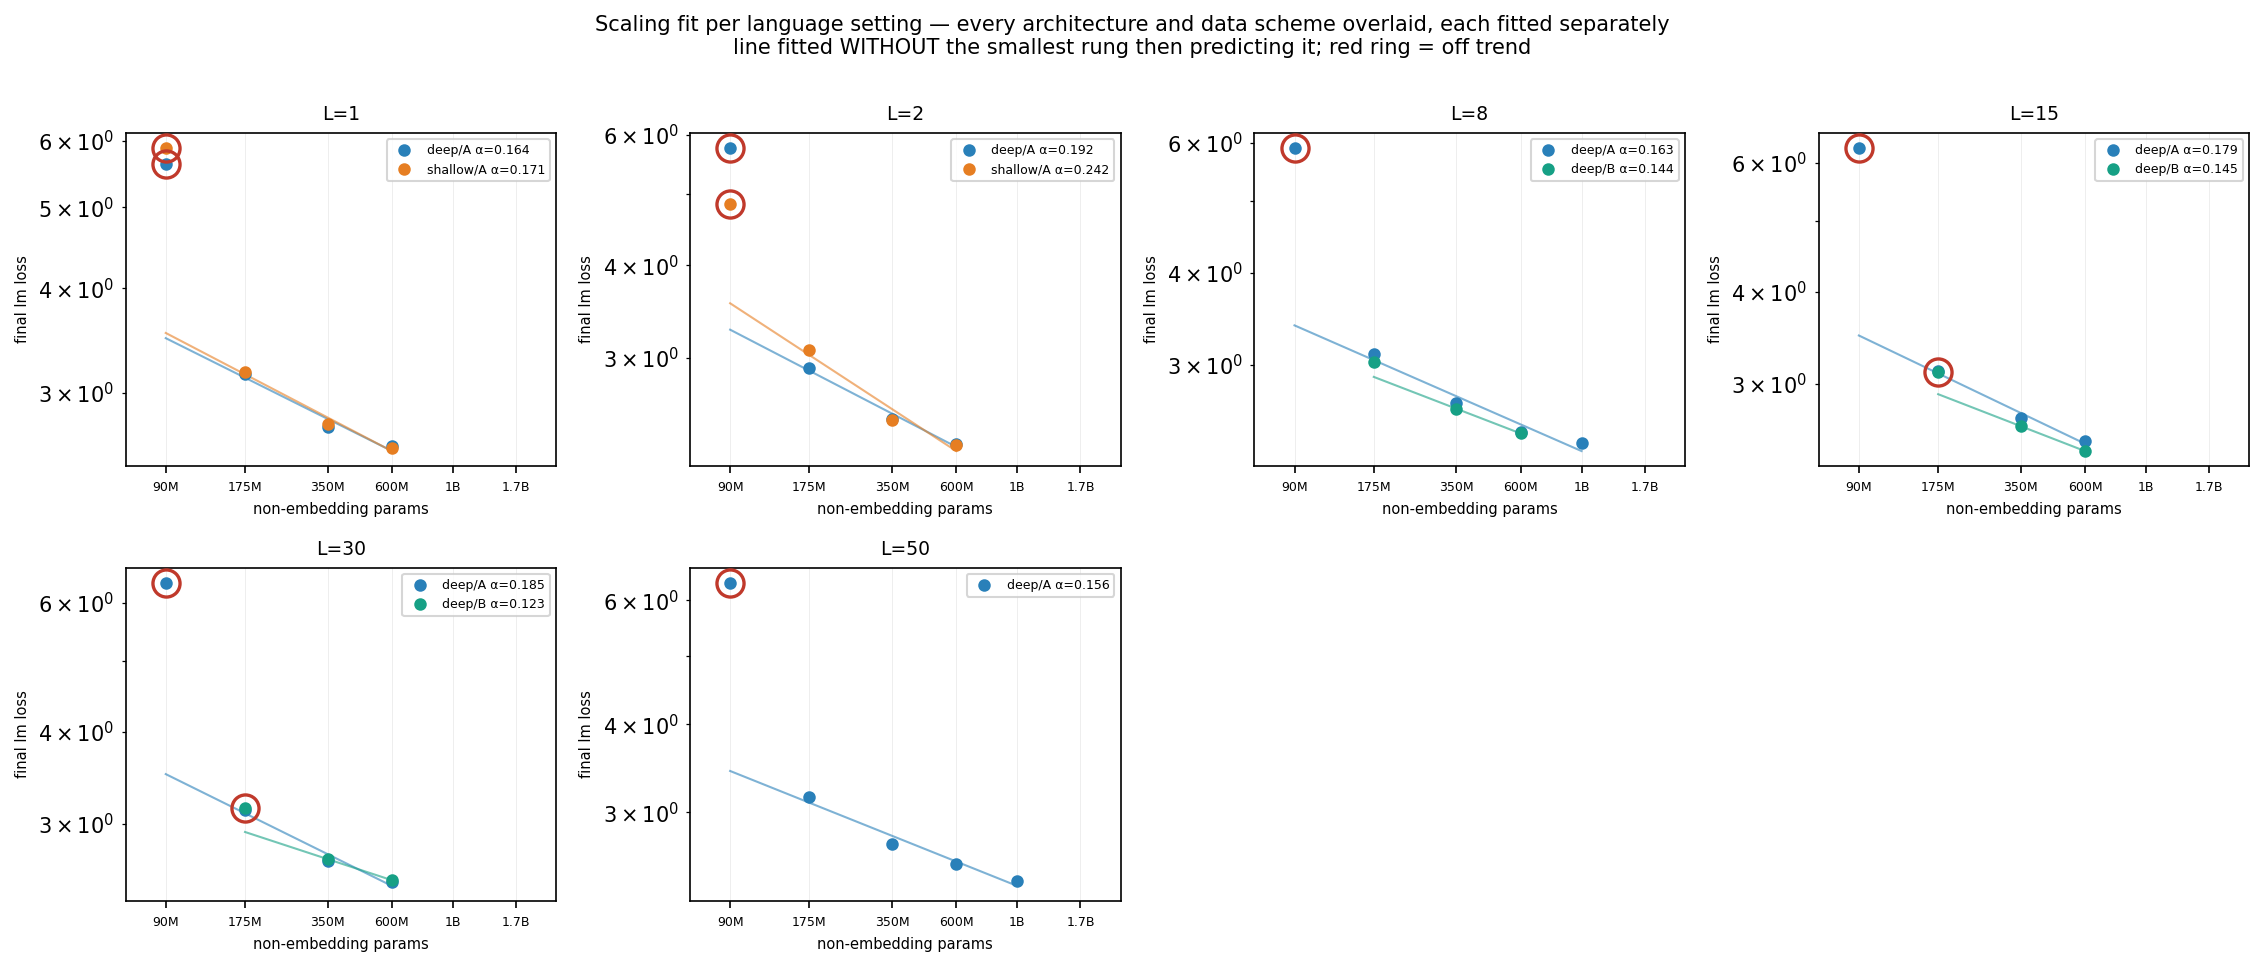
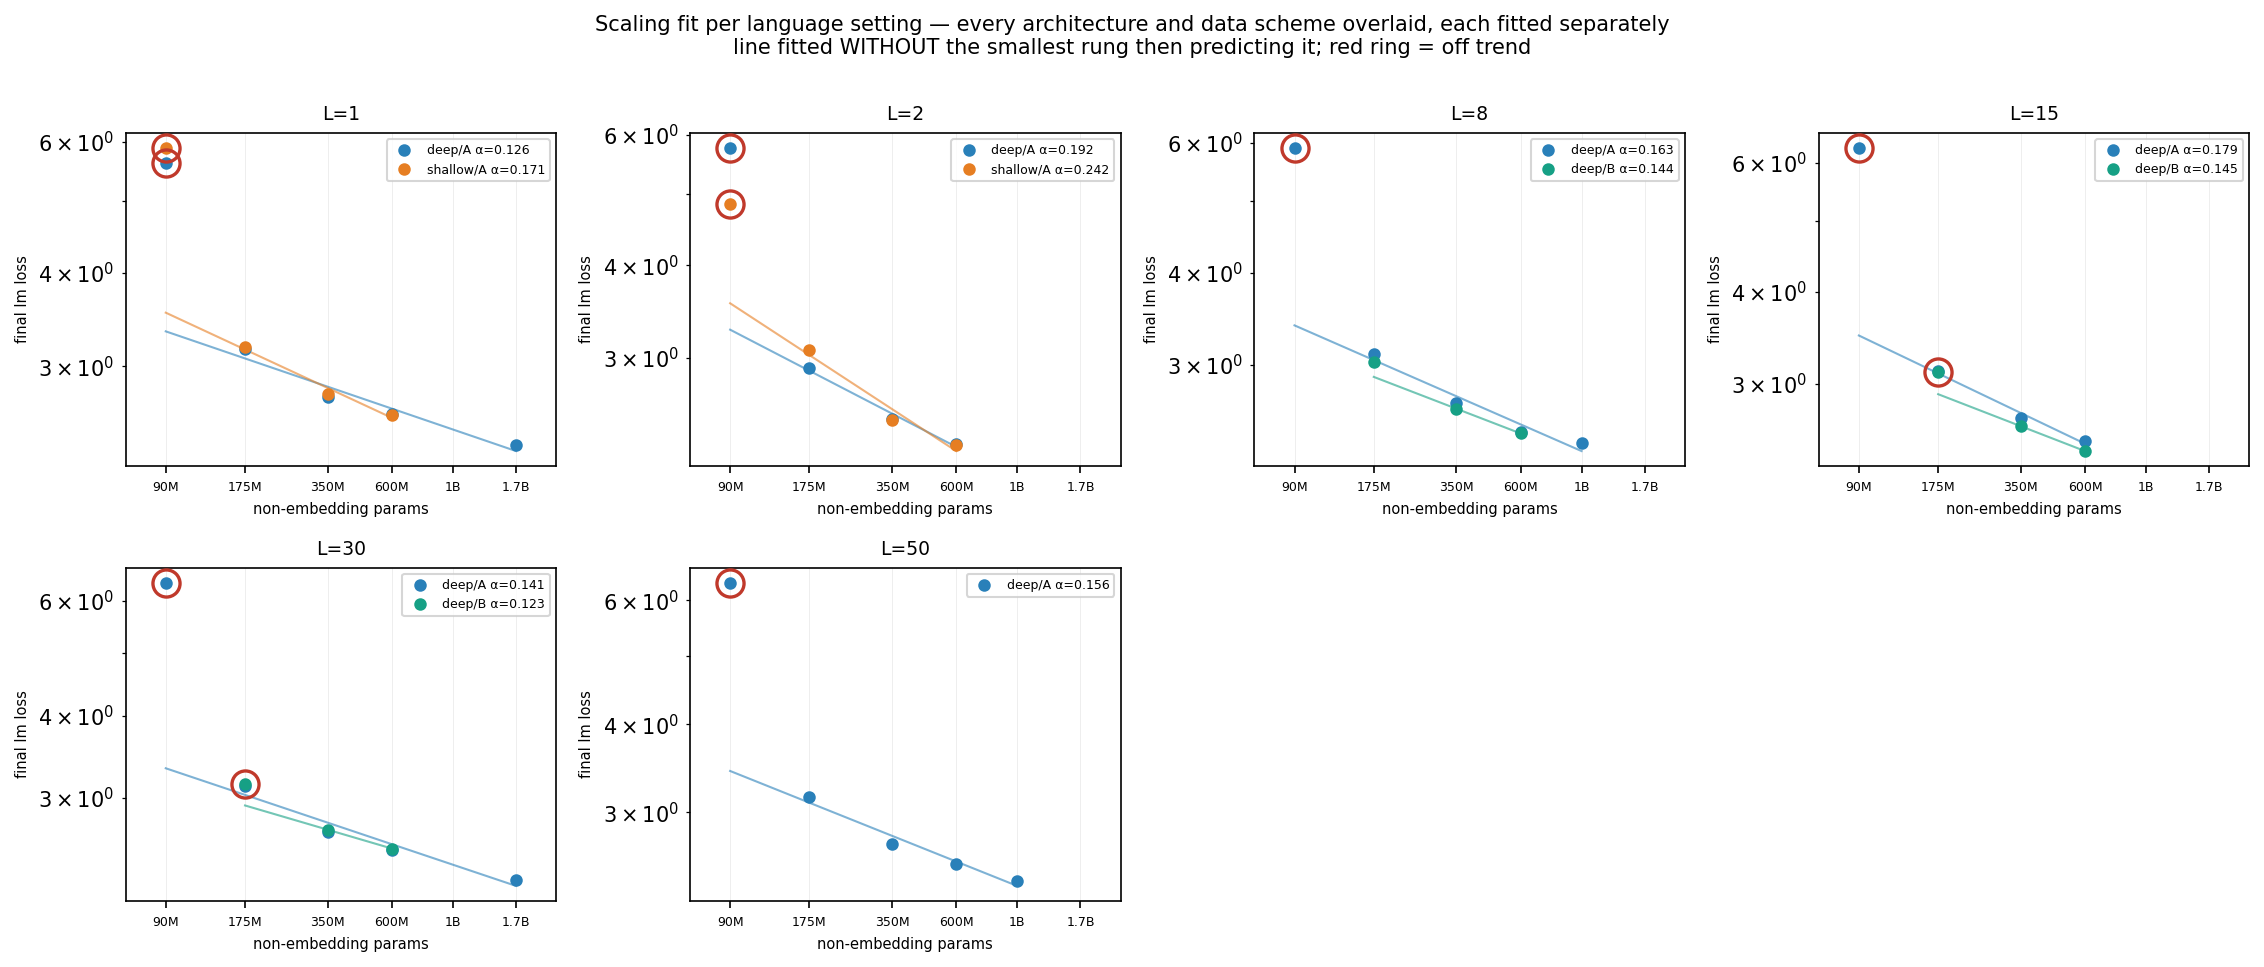
update progress

diff --git a/plan/todos/status-09-12.md b/plan/todos/status-09-12.md
@@ -1,0 +1,171 @@
+
+
+✅ python3.11 pretrain/ladder_report.py --plot --publish --push-hf --push-git
+✅ sbatch scripts/mirror_eval_logs.sbatch 
+✅ bash evals/scripts/launch_bpb.sh
+✅ python3.11 pretrain/auto_evals_cscs.py --watch 1200
+✅ cd Projects/snr-multilingual/ && bash scripts/reservation_drain.sh --max-nodes 52 --interval 1800
+
+✅ resume 1.7B models:
+python3.11 launch_trainings.py cscs --size 1.7B                  # L2 deep
+python3.11 launch_trainings.py cscs --size 1.7B --scheme B       # L8, L30 scheme B deep
+python3.11 launch_trainings.py cscs --size 1.7B --arch shallow   # L1, L2, L8, L30 shallow
+scontrol update jobid=3377944 reservation=SD-69241-apertus-1-5-0 # L2 deep
+
+✅ resume 1B models:
+python3.11 launch_trainings.py cscs --size 1B --langs 1 --seed 1904
+python3.11 launch_trainings.py cscs --size 1B --langs 15 --seed 1904
+
+✅ rebuild data for 1.7B size:
+M=/capstor/store/cscs/swissai/infra01/multilingual_data_mixtures/predictivity-data
+R=$M/rebuild-92B
+DST=/iopsstor/scratch/cscs/mariagrandury/data-92B
+ONE=/iopsstor/scratch/cscs/mariagrandury/Projects/snr-multilingual/src/pretrain/data/submit_build_one.sh
+.# the rebuild root needs the shared english + validation links (launch_builds.sh does this)
+for d in $R $R/schemeB; do mkdir -p $d && for f in english_dclm.bin english_dclm.idx validation.manifest.json; do ln -sfn $M/$f $d/$f; done; done
+sbatch --job-name=build-a-L15-92b --dependency=singleton --export=ALL,BUILD_SCHEME=A,BUILD_STAGE=fineweb,BUILD_SETTING=15,BUILD_OUT=$R,BUILD_DST=$DST $ONE
+sbatch --job-name=build-a-L50-92b --dependency=singleton --export=ALL,BUILD_SCHEME=A,BUILD_STAGE=fineweb,BUILD_SETTING=50,BUILD_OUT=$R,BUILD_DST=$DST $ONE
+sbatch --job-name=build-b-L15-92b --dependency=singleton --export=ALL,BUILD_SCHEME=B,BUILD_STAGE=fineweb,BUILD_SETTING=15,BUILD_OUT=$R/schemeB,BUILD_DST=$DST $ONE
+scontrol update jobid=3378809 reservation=SD-69241-apertus-1-5-0 
+scontrol update jobid=3378808 reservation=SD-69241-apertus-1-5-0 
+scontrol update jobid=3378807 reservation=SD-69241-apertus-1-5-0 
+
+✅ resume trainings that took longer bc of mirror eval logs:
+python3.11 launch_trainings.py cscs --scheme ZH --size 175M,350M
+python3.11 launch_trainings.py cscs --scheme ES --size 175M,350M
+python3.11 launch_trainings.py cscs --scheme AT3 --size 175M
+python3.11 launch_trainings.py cscs --size 90M --langs 2 --seed 1904 --ademamix-beta3-factor 0.2 --gbs 252
+
+
+- ✅ launch 90M config comparison runs (4x)
+- ✅ mirror_eval_logs time -> 12h
+- ✅ Refit evals
+- access to aromanou's logs
+- launch pretraining of 1B shallow models
+- calculate absolute BPB (see details below)
+- Reeval after worker implementation
+- Add language-specific tasks
+- Change eval QA format
+- Generate the INCLUDE v2 MC-format tasks and wire them
+- Switch or drop LAMBADA-MT
+- Get the changes from pretrain-eval-azure in local branch (pull --rebase)
+- Implement flops params?
+- Write methodology
+- Consider models needed language interference study
+
+
+## 90M config comparison
+
+# B — batch size only, β₃ memory at 20% of each run (recommended)
+python3.11 src/pretrain/launch_trainings.py cscs --size 90M --langs 2 --seed 1904 --gbs 252 --ademamix-beta3-factor 0.2
+python3.11 src/pretrain/launch_trainings.py cscs --size 90M --langs 2 --seed 1904 --gbs 84  --ademamix-beta3-factor 0.2
+
+# A — grid config except the batch size (β₃ 0.9999)
+python3.11 src/pretrain/launch_trainings.py cscs --size 90M --langs 2 --seed 1904 --gbs 252
+python3.11 src/pretrain/launch_trainings.py cscs --size 90M --langs 2 --seed 1904 --gbs 84
+
+## Access to aromanou's logs
+
+Command for aromanou
+Her training jobs write their Slurm logs to her own scratch, which we can't enter. She runs this once:
+
+L=/iopsstor/scratch/cscs/aromanou/data-mix-small/Megatron-LM/logs
+# let mariagrandury pass through down to the log dir, without listing anything
+setfacl -m u:mariagrandury:--x /iopsstor/scratch/cscs/aromanou \
+    /iopsstor/scratch/cscs/aromanou/data-mix-small \
+    /iopsstor/scratch/cscs/aromanou/data-mix-small/Megatron-LM $L $L/slurm
+# read the training logs, existing and future (mask pinned so csstaff gains nothing)
+setfacl -m u:mariagrandury:r-x -d -m u:mariagrandury:r-x $L/slurm/training
+find $L/slurm/training -type f -exec setfacl -m u:mariagrandury:r-- -m m::r-- {} +
+
+Eval logs need nothing from her. Her eval results already sit in our tree and are readable (0 of her 380 entries are unreadable), so the mirror copies them. Her eval Slurm logs are in her home clone, which is private, but no tool reads eval Slurm logs.
+Purge protection is a separate step (optional). The mirror's touch pass can't refresh her checkpoint files; only she can: 
+
+find /iopsstor/scratch/cscs/mariagrandury/data-mix-small/Megatron-LM/logs/Meg-Runs/msnr -path '*/checkpoints/*' -user aromanou -exec touch -c {} +
+
+She shouldn't git pull. Her 1B runs are on the old 20-checkpoint schedule, and the current launcher refuses to resume them ("resume it from the checkout that started it"). That old clone is also why her logs still go to her scratch.
+After her grant, compute_cost.py picks her logs up automatically. ladder_report.py and the mirror still only read our log directory; each needs a small change, which I haven't made.
+
+## To consider (BPB): Context resets at every scoring window
+
+Production scores back-to-back 4,096-token windows, so the first tokens of each window predict with almost no context. On the same checkpoint, 1,024-token windows read higher than one continuous window by 0.019 bits/byte on English and 0.122 on Tibetan; scaled to production's window count per 1M tokens, that is roughly +0.007 and +0.03.
+
+Impact: every model is scored on identical windows, so rankings and decision accuracy are unaffected. Absolute BPB is pessimistic, and more so for scripts with few bytes per token. Suggestion: if absolute values matter — for comparison with published numbers — score with a sliding window and a 512–1,024-token stride.
+
+[report]
+- set the flag to --rope-scaling-factor 8
+- fix the “trained language” flag
+- validation languages -> good catch! since we will change the final L100 list, we will have to change the validation 100 languages, how will this affect the validation rebuild and calculation of bpb scores? give me a short list of tasks to follow and what to remember when i do this (i will give this task to another session)
+- The byte-count self-check never runs in production: explain further this caveat, why is it relevant and the proposed fix
+- create a 2nd version of the artifact without the BPB implementation review section
+
+
+# 1B and 1.7B training status
+
+## 1B
+
+- Done:
+    - deep L1 (seeds 28 and 1797), L2 ×3 seeds, L8, L30 ×3 seeds, L50 seed 1904
+    - deep scheme B
+- Waiting for aromanou: L1-deep-seed1904 is at 41,166 of 45,720 and L15-deep-seed1904 at 36,592. Both stopped on node failures. Only her clone can resume them, because they're on the old save schedule that the current launcher refuses.
+- Queued: L50-AT3 deep.
+- Not started:
+    - deep L50 (seeds 28 and 1797), ZH and ES
+    - all 19 shallow 1B cells
+- Blocked: L100-AT3, because its data isn't staged.
+
+## 1.7B
+
+- Done: deep L1 and L30.
+- Running: deep L8 is at iteration 66,659 of 81,000, about 4.5 h from the end, which this job reaches.
+- Queued: L50-AT3 deep.
+- Not started: shallow L50-AT3, and shallow scheme B at L8 and L30.
+- Blocked:
+    - L15 and L50, both arches, and L15 scheme B, both arches: they wait for the 92B data rebuilds;
+    - L100-AT3: its data isn't staged.
+- Resumes with no job queued:
+
+cell	            at     / target	first job requests	jobs to finish
+L2 deep	            65,491 / 81,000	8:15	1
+L8 scheme B deep    56,700 / 81,000	11:15	1
+L30 scheme B deep	65,176 / 81,000	8:15	1
+L1 shallow	        64,512 / 80,640	8:15	1
+L2 shallow	        32,016 / 80,640	11:59	2
+L8 shallow	        12,096 / 80,640	11:59	3
+L30 shallow	        31,667 / 80,640	11:59	2
+
+Each is a 21-node job, so all seven need 147 nodes at once.
+
+The L8-scheme-B job hit TIMEOUT on 09-11 because the previous reservation ended under it. Job 3357160 (1.7B L8 shallow) is less clear: it saved iteration 12,096 at 23:58 and its tasks were terminated a moment later. The log shows no error, no walltime hit and no reservation end, so I don't know why it stopped. Resuming from 12,096 is safe.
+
+
+cd /iopsstor/scratch/cscs/mariagrandury/Projects/snr-multilingual/src/pretrain
+# preview all three first: each should list only [resume] lines
+python3.11 launch_trainings.py cscs --size 1.7B --dry-run
+python3.11 launch_trainings.py cscs --size 1.7B --scheme B --dry-run
+python3.11 launch_trainings.py cscs --size 1.7B --arch shallow --dry-run
+
+python3.11 launch_trainings.py cscs --size 1.7B                  # L2 deep
+python3.11 launch_trainings.py cscs --size 1.7B --scheme B       # L8, L30 scheme B deep
+python3.11 launch_trainings.py cscs --size 1.7B --arch shallow   # L1, L2, L8, L30 shallow
+
+
+Commands for aromanou:
+
+cd /users/aromanou/projects/mSNR/snr-multilingual/src/pretrain
+python3.11 launch_trainings.py cscs --size 1B --langs 1 --seed 1904 --dry-run
+python3.11 launch_trainings.py cscs --size 1B --langs 1 --seed 1904
+python3.11 launch_trainings.py cscs --size 1B --langs 15 --seed 1904 --dry-run
+python3.11 launch_trainings.py cscs --size 1B --langs 15 --seed 1904
+
+## Reservation check
+
+RES=SD-69241-apertus-1-5-0
+# nodes held now, and nodes queued, per user
+squeue -R $RES -h -t R  -o "%u %D" | awk '{n[$1]+=$2} END {for (u in n) print n[u], u}' | sort -rn
+# running jobs, soonest end first: user, nodes, time left, expected end, name
+squeue -R $RES -h -t R -o "%.14u %.4D %.11L %.20e %j" -S e
+# nodes freeing up, per hour from now
+squeue -R $RES -h -t R -o "%D %e" | while read n e; do echo "$n $(( ($(date -d "$e" +%s) - $(date +%s)) / 3600 ))"; done | awk '{f[$2]+=$1} END {for (h in f) print "+" h "h", f[h]}' | sort -t+ -k2 -n
+# when Slurm expects the queued jobs to start
+squeue -R $RES -h -t PD -o "%.14u %.4D %.20S %j" -S S

diff --git a/src/pretrain/ladder_report.md b/src/pretrain/ladder_report.md
@@ -6,18 +6,19 @@
 
 | cell | final loss | best (iter) | diverged | scaling resid | macro BPB |
 | ---- | ---------: | ----------: | :------: | ------------: | --------: |
-| 90M-L1-deep | 5.628 | 4.339 (840) | **yes** | **+2.14** | 6.422 |
+| 90M-L1-deep | 5.628 | 4.339 (840) | **yes** | **+2.29** | 6.422 |
 | 90M-L1-shallow | 5.887 | 4.697 (654) | **yes** | **+2.35** | 6.048 |
-| 175M-L1-deep | 3.161 | 3.113 (8407) |  | +0.03 | 2.052 |
+| 175M-L1-deep | 3.161 | 3.113 (8407) |  | +0.09 | 2.052 |
 | 175M-L1-deep-seed313 | 3.134 | 3.095 (6987) |  |  | 2.086 |
 | 175M-L1-deep-seed64 | 3.118 | 3.082 (8531) |  |  | 2.036 |
 | 175M-L1-shallow | 3.183 | 3.149 (8039) |  | +0.02 | 2.088 |
-| 350M-L1-deep | 2.731 | 2.705 (16450) |  | -0.06 | 1.814 |
+| 350M-L1-deep | 2.731 | 2.705 (16450) |  | -0.08 | 1.814 |
 | 350M-L1-shallow | 2.756 | 2.710 (16450) |  | -0.05 | 1.804 |
-| 600M-L1-deep | 2.591 | 2.534 (27261) |  | +0.03 | 1.676 |
+| 600M-L1-deep | 2.591 | 2.534 (27261) |  | -0.04 | 1.676 |
 | 600M-L1-deep-seed313 | 2.612 | 2.554 (28253) |  |  | 1.685 |
 | 600M-L1-deep-seed64 | 2.551 | 2.551 (28800) |  |  | 1.675 |
 | 600M-L1-shallow | 2.583 | 2.548 (27261) |  | +0.03 | 1.718 |
+| 1.7B-L1-deep | 2.349 | 2.317 (79703) |  | +0.04 | 1.504 |
 | 90M-L2-deep | 5.762 | 4.397 (897) | **yes** | **+2.49** | 12.522 |
 | 90M-L2-shallow | 4.846 | 4.612 (1231) |  | **+1.29** | 4.363 |
 | 175M-L2-deep | 2.904 | 2.870 (7262) |  | +0.02 | 2.094 |
@@ -29,6 +30,8 @@
 | 600M-L2-deep | 2.297 | 2.266 (26341) |  | +0.02 | 1.669 |
 | 600M-L2-deep-seed313 | 2.293 | 2.257 (28033) |  |  | 1.655 |
 | 600M-L2-deep-seed64 | 2.315 | 2.252 (28234) |  |  | 1.649 |
+| 600M-L2-ES-deep | 2.337 | 2.301 (28245) |  |  | 1.734 |
+| 600M-L2-ZH-deep | 2.384 | 2.371 (27424) |  |  | 1.750 |
 | 600M-L2-shallow | 2.289 | 2.249 (29787) |  | +0.04 | 1.650 |
 | 90M-L8-deep | 5.906 | 4.536 (830) | **yes** | **+2.52** | 17.068 |
 | 175M-L8-deep | 3.102 | 3.068 (8200) |  | +0.06 | 2.060 |
@@ -48,23 +51,26 @@
 | 350M-L15-shallow | 2.672 | 2.633 (16078) |  |  | 1.683 |
 | 600M-L15-deep | 2.506 | 2.477 (27805) |  | +0.02 | 1.595 |
 | 600M-L15-schemeB-deep | 2.429 | 2.405 (27865) |  | +0.00 | 1.609 |
-| 90M-L30-deep | 6.389 | 4.475 (766) | **yes** | **+2.88** | 6.525 |
+| 90M-L30-deep | 6.389 | 4.475 (766) | **yes** | **+3.06** | 6.525 |
 | 90M-L30-shallow | 6.452 | 4.885 (599) | **yes** |  | 4.743 |
-| 175M-L30-deep | 3.129 | 3.085 (8397) |  | +0.03 | 1.766 |
+| 175M-L30-deep | 3.129 | 3.085 (8397) |  | +0.10 | 1.766 |
 | 175M-L30-schemeB-deep | 3.154 | 3.121 (8308) |  | **+0.23** | 1.819 |
-| 350M-L30-deep | 2.666 | 2.644 (16294) |  | -0.06 | 1.551 |
+| 350M-L30-deep | 2.666 | 2.644 (16294) |  | -0.08 | 1.551 |
 | 350M-L30-schemeB-deep | 2.684 | 2.634 (14913) |  | +0.00 | 1.561 |
 | 350M-L30-shallow | 2.703 | 2.652 (16294) |  |  | 1.543 |
-| 600M-L30-deep | 2.498 | 2.475 (28069) |  | +0.03 | 1.451 |
+| 600M-L30-deep | 2.498 | 2.475 (28069) |  | -0.05 | 1.451 |
 | 600M-L30-schemeB-deep | 2.512 | 2.453 (28792) |  | +0.00 | 1.469 |
+| 1.7B-L30-deep | 2.249 | 2.190 (80714) |  | +0.05 | 1.280 |
 | 90M-L50-deep | 6.349 | 4.538 (790) | **yes** | **+2.91** | 6.977 |
 | 175M-L50-deep | 3.156 | 3.121 (7262) |  | +0.06 | 1.601 |
 | 175M-L50-deep-seed313 | 3.147 | 3.107 (8433) |  |  | 1.601 |
 | 175M-L50-deep-seed64 | 3.193 | 3.143 (8236) |  |  | 1.625 |
 | 350M-L50-deep | 2.708 | 2.666 (15570) |  | -0.07 | 1.371 |
+| 350M-L50-AT3-deep | 2.659 | 2.643 (15914) |  |  | 1.342 |
 | 600M-L50-deep | 2.532 | 2.498 (28656) |  | -0.02 | 1.302 |
 | 600M-L50-deep-seed313 | 2.519 | 2.478 (28465) |  |  | 1.282 |
 | 600M-L50-deep-seed64 | 2.521 | 2.482 (28708) |  |  | 1.278 |
+| 600M-L50-AT3-deep | 2.481 | 2.457 (27994) |  |  | 1.255 |
 | 1B-L50-deep | 2.402 | 2.336 (44736) |  | +0.04 | 1.209 |
 
 ## Effect of each transformation
@@ -73,7 +79,7 @@
 | -------------- | ----: | -----------: | ----------: | ---------------: |
 | seed | 18 | -0.061 .. +0.046 | -0.050 .. +0.034 | -0.010 .. +0.040 |
 | arch | 13 | -1.074 .. +0.259 | -8.159 .. +0.084 | -0.011 .. +0.035 |
-| scheme | 9 | -0.077 .. +0.025 | -0.014 .. +0.103 | -0.010 .. +0.007 |
+| scheme | 13 | -0.077 .. +0.087 | -0.046 .. +0.103 | -0.010 .. +0.036 |
 
 **Read this against the `seed` row.** A transformation whose effect is no larger than re-rolling the seed is not a distinct model for SNR — it is the same model measured twice. An em dash means no matched pair exists yet.
 

diff --git a/plan/todos/status-09-11.md b/plan/todos/status-09-11.md
@@ -39,6 +39,9 @@ night:
 morning:
 python3.11 pretrain/ladder_report.py --plot --publish --push-hf --push-git
 sbatch scripts/mirror_eval_logs.sbatch 
+✅ bash evals/scripts/launch_bpb.sh
+✅ python3.11 pretrain/auto_evals_cscs.py --watch 1200
+✅ cd Projects/snr-multilingual/ && bash scripts/reservation_drain.sh --max-nodes 86 --interval 1800
 
 - Refit evals
 - Reeval after worker implementation
